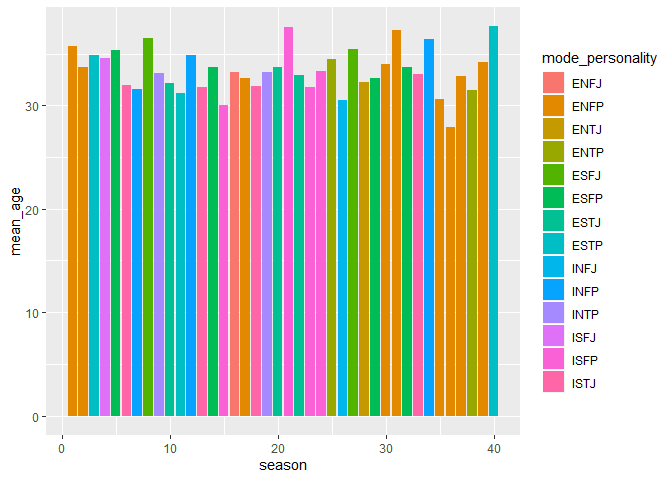
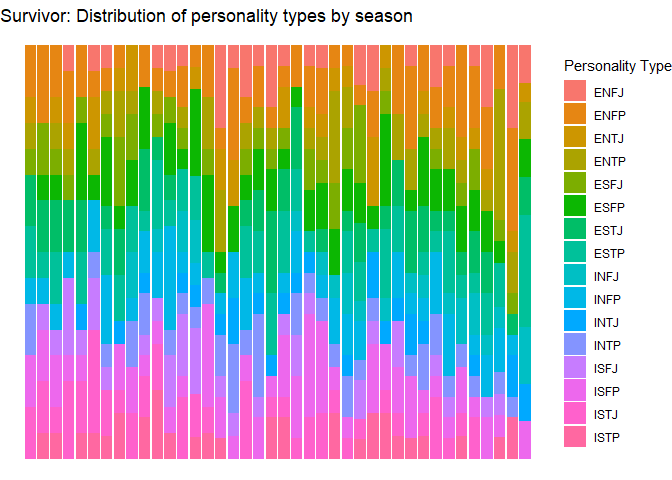
keep on exploring
this time exploring more of the castaways and beginning to explore viewers

diff --git a/20210601 - Survivor/Tidy-Tuesday-20210601---SURVIVOR.md b/20210601 - Survivor/Tidy-Tuesday-20210601---SURVIVOR.md
@@ -6,8 +6,10 @@ Nick Cruickshank
 ``` r
 # libraries
 library(cowplot)
+library(forcats)
 library(ggrepel)
 library(readr)
+library(tidytext)
 library(tidyverse)
 ```
 
@@ -228,32 +230,196 @@ castaways_sum <- castaways %>%
 ```
 
 ``` r
-castaways %>%
-  ggplot(aes(season, age)) + 
-  geom_boxplot(aes(group = season))
+viewers %>%
+  group_by(season) %>%
+  dplyr::summarise(season_rating = round(mean(rating_18_49, na.rm = TRUE), 2)) %>%
+  ggplot(aes(season, season_rating)) + 
+  geom_point()
 ```
 
 ![](Tidy-Tuesday-20210601---SURVIVOR_files/figure-gfm/unnamed-chunk-11-1.png)<!-- -->
+
+``` r
+castaways %>%
+  ggplot(aes(season, age)) + 
+  geom_boxplot(aes(group = season)) +
+  labs(
+    title = "Survivor: Distribution of castaway ages throughout the seasons",
+    x = "Season",
+    y = "Age"
+  ) + 
+  theme_minimal() + 
+  theme(
+    panel.grid.major.x = element_blank(),
+    panel.grid.minor.x = element_blank()
+  )
+```
+
+![](Tidy-Tuesday-20210601---SURVIVOR_files/figure-gfm/unnamed-chunk-11-2.png)<!-- -->
 
 ``` r
   # color by ???
   ## personality type
 ```
 
+### Personality Type by Season
+
 ``` r
-castaways_sum %>%
-  ggplot(aes(season, mean_age)) + 
-  geom_bar(aes(fill = mode_personality), stat = "identity")
+castaways %>%
+  filter(!(is.na(personality_type))) %>%
+  count(season, personality_type) %>%
+  ggplot(aes(season, n, fill = personality_type)) + 
+  geom_bar(stat = "identity", position = "fill") + 
+  labs(
+    title = "Survivor: Distribution of personality types by season",
+    fill = "Personality Type"
+  ) + 
+  theme_void()
 ```
 
 ![](Tidy-Tuesday-20210601---SURVIVOR_files/figure-gfm/unnamed-chunk-12-1.png)<!-- -->
 
-``` r
-  # would be more meaningful as personality of winner rather than mode personality
-```
-
 ### Result by Personality Type
 
+``` r
+#df<-df%>%mutate(MyQuantileBins = cut(MyContinuous, 
+#                                 breaks = unique(quantile(MyContinuous,probs=seq.int(0,1, by=1/numbers_of_bins))), 
+#                                                 include.lowest=TRUE))
+
+# as.numeric(cut2(das$wt, g=3))
+
+castaway_result_noise <- filter(count(castaways, result), n < 10)$result
+number_of_bins <- 3
+
+castaway_personality <- castaways %>%
+  filter(
+    !(result %in% castaway_result_noise),
+    !(is.na(personality_type))
+    ) %>%
+  group_by(personality_type) %>%
+  dplyr::summarise(
+    `Percent of castaways who won the season` = 100*(sum(result == "Sole Survivor") / n()),
+    `Percent of castaways who were finalists (winners and runner-ups)` = 100*(sum(str_detect(str_to_lower(result), "(runner-up|sole survivor)")) / n()),
+    `Staying Power (sum of order squared, divided by count)` = sum(order^2) / n(),
+  )
+
+castaway_personality %>%
+  pivot_longer(cols = -personality_type, names_to = "success_metric", values_to = "rate") %>%
+  ggplot(aes(reorder_within(personality_type, rate, success_metric), rate)) + 
+  geom_bar(aes(fill = success_metric), stat = "identity") + 
+  scale_x_reordered() + 
+  facet_wrap(~ success_metric, ncol = 1, scales = "free") + 
+  labs(
+    title = "Survivor: Which personality type was most succesful?",
+    x = "Personality Type",
+    y = ""
+  ) +
+  theme_minimal() + 
+  theme(
+    legend.position = "none",
+    panel.grid.major.x = element_blank(),
+    panel.grid.minor.x = element_blank()
+  )
+```
+
+![](Tidy-Tuesday-20210601---SURVIVOR_files/figure-gfm/unnamed-chunk-13-1.png)<!-- -->
+
+### Where did all the castaways come from?
+
+Plot chloropleth map per capita.
+
 ## Viewers
+
+``` r
+viewers
+```
+
+    ## # A tibble: 596 x 9
+    ##    season_name season episode_number_~ episode title episode_date viewers
+    ##    <chr>        <dbl>            <dbl>   <dbl> <chr> <date>         <dbl>
+    ##  1 Survivor: ~     40              583       1 Grea~ 2020-02-12      6.68
+    ##  2 Survivor: ~     40              584       2 It's~ 2020-02-19      7.16
+    ##  3 Survivor: ~     40              585       3 Out ~ 2020-02-26      7.14
+    ##  4 Survivor: ~     40              586       4 I Li~ 2020-03-04      7.08
+    ##  5 Survivor: ~     40              587       5 The ~ 2020-03-11      6.91
+    ##  6 Survivor: ~     40              588       6 Quic~ 2020-03-18      7.83
+    ##  7 Survivor: ~     40              589       7 We'r~ 2020-03-25      8.18
+    ##  8 Survivor: ~     40              590       8 This~ 2020-04-01      8.23
+    ##  9 Survivor: ~     40              591       9 War ~ 2020-04-08      7.85
+    ## 10 Survivor: ~     40              592      10 The ~ 2020-04-15      8.14
+    ## # ... with 586 more rows, and 2 more variables: rating_18_49 <dbl>,
+    ## #   share_18_49 <dbl>
+
+### Viewership over the course of a season
+
+What is the average viewer ship pattern over the course of a season?
+
+``` r
+viewers %>%
+  group_by(season) %>%
+  dplyr::summarise(
+    season_start = min(episode),
+    season_end = max(episode)
+  ) %>%
+  ggplot(aes(season, season_end)) + 
+  geom_line()
+```
+
+![](Tidy-Tuesday-20210601---SURVIVOR_files/figure-gfm/unnamed-chunk-15-1.png)<!-- -->
+
+``` r
+viewers %>%
+  filter(episode < 17) %>%
+  group_by(episode) %>%
+  dplyr::summarise(
+    mean_viewers = mean(viewers, na.rm = TRUE) 
+  ) %>%
+  ggplot(aes(episode, mean_viewers)) + 
+  geom_line()
+```
+
+![](Tidy-Tuesday-20210601---SURVIVOR_files/figure-gfm/unnamed-chunk-15-2.png)<!-- -->
+
+Same question, but for ratings
+
+``` r
+viewers %>%
+  ggplot(aes(episode_number_overall, rating_18_49)) + 
+  geom_line()
+```
+
+![](Tidy-Tuesday-20210601---SURVIVOR_files/figure-gfm/unnamed-chunk-16-1.png)<!-- -->
+
+``` r
+viewers %>%
+  ggplot(aes(episode_number_overall, viewers)) + 
+  geom_line()
+```
+
+![](Tidy-Tuesday-20210601---SURVIVOR_files/figure-gfm/unnamed-chunk-17-1.png)<!-- -->
+
+``` r
+viewers %>%
+  group_by(season) %>%
+  dplyr::summarise(
+    mean_rating = mean(rating_18_49, na.rm = TRUE),
+    mean_viewers = mean(viewers, na.rm = TRUE)
+  ) %>%
+  ggplot(aes(mean_viewers, mean_rating)) + 
+  geom_point() + 
+  geom_smooth(method = "lm")
+```
+
+![](Tidy-Tuesday-20210601---SURVIVOR_files/figure-gfm/unnamed-chunk-18-1.png)<!-- -->
+
+``` r
+res <- lm(viewers$rating_18_49 ~ viewers$viewers)
+RSS <- c(crossprod(res$residuals))
+MSE <- RSS / length(res$residuals)
+RMSE <- sqrt(MSE)
+RMSE
+```
+
+    ## [1] 1.957598
 
 ## Jury Votes
